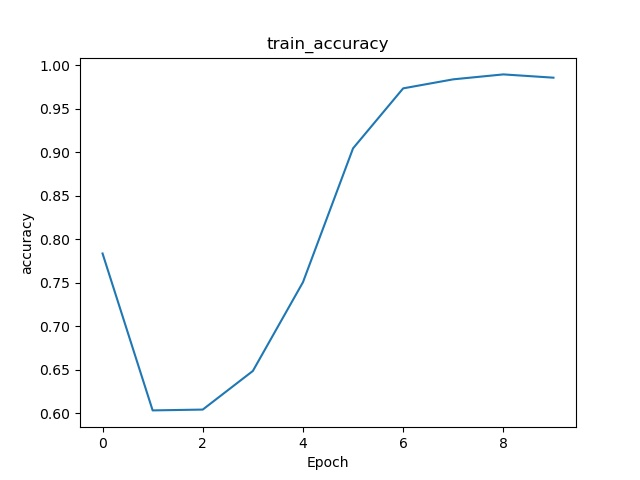
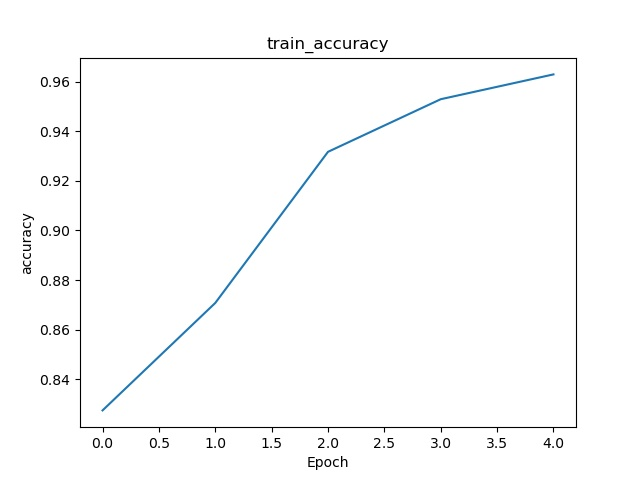
none argument, mnist data

diff --git a/myModel.py b/myModel.py
@@ -4,19 +4,27 @@ import numpy as np
 import sys
 import traceback
 import matplotlib.pyplot as plt
-num_epochs = 10
+num_epochs = 5
 batch_size = 32
 learning_rate = 0.001
-train_0_dir = 'D:/Users/Wu/PycharmProjects/TensorflowGUI/trainData/mask_face/'
-train_1_dir = 'D:/Users/Wu/PycharmProjects/TensorflowGUI/trainData/no_mask_face/'
+train_0_dir = 'D:/Users/Wu/PycharmProjects/TensorflowGUI/trainData/number/0/'
+train_1_dir = 'D:/Users/Wu/PycharmProjects/TensorflowGUI/trainData/number/1/'
+train_2_dir = 'D:/Users/Wu/PycharmProjects/TensorflowGUI/trainData/number/2/'
+train_3_dir = 'D:/Users/Wu/PycharmProjects/TensorflowGUI/trainData/number/3/'
+train_4_dir = 'D:/Users/Wu/PycharmProjects/TensorflowGUI/trainData/number/4/'
+train_5_dir = 'D:/Users/Wu/PycharmProjects/TensorflowGUI/trainData/number/5/'
+train_6_dir = 'D:/Users/Wu/PycharmProjects/TensorflowGUI/trainData/number/6/'
+train_7_dir = 'D:/Users/Wu/PycharmProjects/TensorflowGUI/trainData/number/7/'
+train_8_dir = 'D:/Users/Wu/PycharmProjects/TensorflowGUI/trainData/number/8/'
+train_9_dir = 'D:/Users/Wu/PycharmProjects/TensorflowGUI/trainData/number/9/'
 class MyModel():
     def getModel(self):
         model = tf.keras.Sequential([
-            tf.keras.layers.Conv2D(32, 3, activation='relu', padding='valid', input_shape=(64, 64, 3)),
-            tf.keras.layers.MaxPool2D(2, strides=3, padding='valid'),
+            tf.keras.layers.Conv2D(32, 3, padding='valid', input_shape=(28, 28, 1)),
             tf.keras.layers.Flatten(),
-            tf.keras.layers.Dense(32, activation='relu', use_bias=True),
-            tf.keras.layers.Dense(2, activation='softmax', use_bias=True)
+            tf.keras.layers.Dense(10, use_bias=True),
+            tf.keras.layers.Dense(10, activation='linear', use_bias=True),
+            tf.keras.layers.Dense(10, activation='softmax', use_bias=True)
         ])
         model.compile(
             optimizer=tf.keras.optimizers.Adam(learning_rate=0.001),
@@ -29,14 +37,14 @@ class MyModel():
 def _decode_and_resize(filename, label):
     image_string = tf.io.read_file(filename)
     image_decoded = tf.image.decode_jpeg(image_string)
-    image_resized = tf.image.resize(image_decoded, [64, 64]) / 255.0
+    image_resized = tf.image.resize(image_decoded, [28, 28]) / 255.0
     return image_resized, label
 
 
 def predict_resize_decode(filename):
     image_string = tf.io.read_file(filename)
     image_decoded = tf.image.decode_jpeg(image_string)
-    image_resized = tf.image.resize(image_decoded, [64, 64]) / 255.0
+    image_resized = tf.image.resize(image_decoded, [28, 28]) / 255.0
     image_resized = np.expand_dims(image_resized, axis=0)
     return image_resized
 
@@ -44,11 +52,27 @@ def predict_resize_decode(filename):
 def train():
     train_0_filenames = tf.constant([train_0_dir + filename for filename in os.listdir(train_0_dir)])
     train_1_filenames = tf.constant([train_1_dir + filename for filename in os.listdir(train_1_dir)])
-    train_filenames = tf.concat([train_0_filenames, train_1_filenames], axis=-1)
+    train_2_filenames = tf.constant([train_2_dir + filename for filename in os.listdir(train_2_dir)])
+    train_3_filenames = tf.constant([train_3_dir + filename for filename in os.listdir(train_3_dir)])
+    train_4_filenames = tf.constant([train_4_dir + filename for filename in os.listdir(train_4_dir)])
+    train_5_filenames = tf.constant([train_5_dir + filename for filename in os.listdir(train_5_dir)])
+    train_6_filenames = tf.constant([train_6_dir + filename for filename in os.listdir(train_6_dir)])
+    train_7_filenames = tf.constant([train_7_dir + filename for filename in os.listdir(train_7_dir)])
+    train_8_filenames = tf.constant([train_8_dir + filename for filename in os.listdir(train_8_dir)])
+    train_9_filenames = tf.constant([train_9_dir + filename for filename in os.listdir(train_9_dir)])
+    train_filenames = tf.concat([train_0_filenames, train_1_filenames, train_2_filenames, train_3_filenames, train_4_filenames, train_5_filenames, train_6_filenames, train_7_filenames, train_8_filenames, train_9_filenames], axis=-1)
 
     train_labels = tf.concat([
         tf.constant([0] * train_0_filenames.shape[0]),
-        tf.constant([1] * train_1_filenames.shape[0])], axis=-1)
+        tf.constant([1] * train_1_filenames.shape[0]),
+        tf.constant([2] * train_2_filenames.shape[0]),
+        tf.constant([3] * train_3_filenames.shape[0]),
+        tf.constant([4] * train_4_filenames.shape[0]),
+        tf.constant([5] * train_5_filenames.shape[0]),
+        tf.constant([6] * train_6_filenames.shape[0]),
+        tf.constant([7] * train_7_filenames.shape[0]),
+        tf.constant([8] * train_8_filenames.shape[0]),
+        tf.constant([9] * train_9_filenames.shape[0])], axis=-1)
     train_dataset = tf.data.Dataset.from_tensor_slices((train_filenames, train_labels))
     train_dataset = train_dataset.map(
         map_func=_decode_and_resize,

diff --git a/createModelFile.py b/createModelFile.py
@@ -22,16 +22,25 @@ def get_model_file_text(layer_argument, train_dirs, wide_setting):
         layer_text = ''
         layer_text += '            tf.keras.layers.' + argument['type'] + '('
         if argument['type'] == 'Conv2D':
-            layer_text += str(argument['filters']) + ', ' + str(argument['kernel_size']) + ', activation=\'' + argument['activation'] + '\', padding=\'' + argument['padding'] + '\''
+            if argument['activation'] == 'None':
+                layer_text += str(argument['filters']) + ', ' + str(argument['kernel_size']) + ', padding=\'' + argument['padding'] + '\''
+            else:
+                layer_text += str(argument['filters']) + ', ' + str(argument['kernel_size']) + ', activation=\'' + argument['activation'] + '\', padding=\'' + argument['padding'] + '\''
         elif argument['type'] == 'Flatten':
             layer_text += ''
         elif argument['type'] == 'MaxPool2D':
             layer_text += str(argument['pool_size']) + ', strides=' + str(argument['strides']) + ', padding=\'' + argument['padding'] + '\''
         elif argument['type'] == 'Dense':
-            layer_text += str(argument['units']) + ', activation=\'' + argument['activation'] + '\', use_bias=' + str(argument['use_bias']) + ''
+            if argument['activation'] == 'None':
+                layer_text += str(argument['units']) + ', use_bias=' + str(argument['use_bias']) + ''
+            else:
+                layer_text += str(argument['units']) + ', activation=\'' + argument['activation'] + '\', use_bias=' + str(argument['use_bias']) + ''
         elif argument['type'] == 'Dropout':
             layer_text += str(argument['rate'])
-        if i == 0:
+        if i == 0 and argument['type'] == 'Flatten':
+            layer_text += 'input_shape=(' + str(wide_setting[0]['width']) + ', ' + str(
+                wide_setting[0]['height']) + ', ' + str(wide_setting[0]['channel']) + ')'
+        elif i == 0:
             layer_text += ', input_shape=(' + str(wide_setting[0]['width']) + ', ' + str(wide_setting[0]['height']) + ', ' + str(wide_setting[0]['channel']) + ')'
         layer_text += ')'
 

diff --git a/predictImage.py b/predictImage.py
@@ -5,11 +5,11 @@ import sys
 import traceback
 import shutil
 
-predict_dir = ['D:/Users/Wu/PycharmProjects/TensorflowGUI/predictData/mask_face','D:/Users/Wu/PycharmProjects/TensorflowGUI/predictData/no_mask_face']
+predict_dir = ['D:/Users/Wu/PycharmProjects/TensorflowGUI/predictData/number/0','D:/Users/Wu/PycharmProjects/TensorflowGUI/predictData/number/1','D:/Users/Wu/PycharmProjects/TensorflowGUI/predictData/number/2','D:/Users/Wu/PycharmProjects/TensorflowGUI/predictData/number/3','D:/Users/Wu/PycharmProjects/TensorflowGUI/predictData/number/4','D:/Users/Wu/PycharmProjects/TensorflowGUI/predictData/number/5','D:/Users/Wu/PycharmProjects/TensorflowGUI/predictData/number/6','D:/Users/Wu/PycharmProjects/TensorflowGUI/predictData/number/7','D:/Users/Wu/PycharmProjects/TensorflowGUI/predictData/number/8','D:/Users/Wu/PycharmProjects/TensorflowGUI/predictData/number/9']
 def predict_resize_decode(filename):
     image_string = tf.io.read_file(filename)
     image_decoded = tf.image.decode_jpeg(image_string)
-    image_resized = tf.image.resize(image_decoded, [64, 64]) / 255.0
+    image_resized = tf.image.resize(image_decoded, [28, 28]) / 255.0
     image_resized = np.expand_dims(image_resized, axis=0)
     return image_resized
 def predict(predict_path, model_name):
@@ -27,7 +27,7 @@ def predict(predict_path, model_name):
                     index = i
             shutil.move(fullpath, predict_dir[index] + '/' + f)
 if __name__ == '__main__':
-    path = 'D:/Users/Wu/PycharmProjects/TensorflowGUI/predictData'
+    path = 'D:/Users/Wu/PycharmProjects/TensorflowGUI/predictData/number'
     modelName = 'myModel'
     for folder in predict_dir:
         os.mkdir(folder)

diff --git a/handleMnist.py b/handleMnist.py
@@ -1,0 +1,12 @@
+import tensorflow as tf
+import cv2
+
+def main():
+    (x_train, y_train), (x_test, y_test) = tf.keras.datasets.mnist.load_data()
+    for i in range(10000):
+        cv2.imwrite('./trainData/number/' + str(y_train[i]) + '/' + str(i) + '.jpg', x_train[i])
+    for i in range(1000):
+        cv2.imwrite('./predictData/number/' + str(i) + '.jpg', x_test[i])
+
+if __name__ == '__main__':
+    main()
